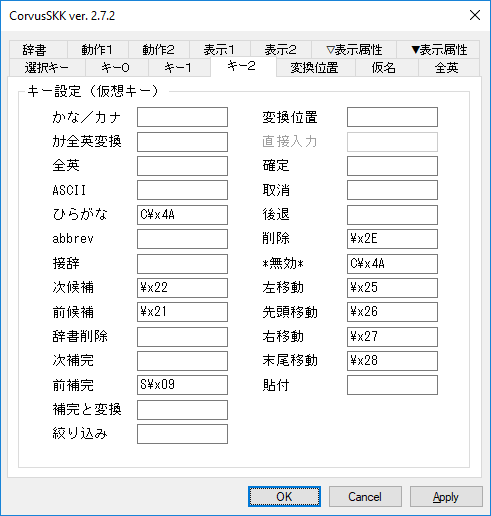
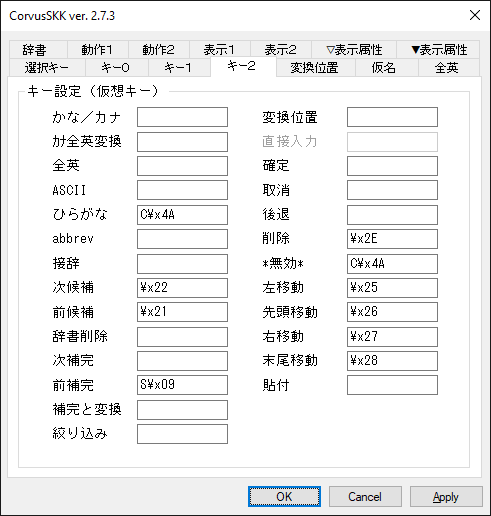
2.7.3
・Per-Monitor DPI のマルチモニタ環境で前回表示したときのフォントサイズが残ってしまうバグを修正しました。
　例えば、144 DPI (150%) のモニタで候補一覧を表示した後、候補一覧が無い状態で 96 DPI (100%) のモニタに移動すると 144 DPI (150%) のフォントサイズで表示していました。

・Per-Monitor DPI のマルチモニタ環境で「候補一覧の最大幅」の設定を DPI に追従させるようにしました。
　例えば、設定値が 100 のとき、96 DPI (100%) のモニタでは 100 ピクセル、144 DPI (150%) のモニタでは 150 ピクセルとして扱われます。
　候補一覧を横表示にしているときに DPI の異なるモニタを行ったり来たりしても候補の配置が維持されるようになります。

・候補一覧において、最大幅の設定値を超えない候補の表示位置を、最大幅の設定値を超える候補の幅ではなく最大幅の設定値の範囲内としました。

・設定ダイアログで「候補一覧表示の描画API」を変更しても適用ボタンが有効にならないバグを修正しました。

・設定ダイアログの「候補一覧表示の描画API」のデフォルト値を 800 から 320 に変更しました。

・静的コード解析で警告となる箇所を修正しました。

・Visual C++ 再配布可能パッケージのライセンス表示を更新しました。

diff --git a/common/version.h b/common/version.h
@@ -7,10 +7,10 @@
 #define TEXTSERVICE_DESC	TEXTSERVICE_NAME L"_DEBUG"
 #endif
 #define TEXTSERVICE_DIR		L"IMCRVSKK"
-#define TEXTSERVICE_VER		L"2.7.2"
+#define TEXTSERVICE_VER		L"2.7.3"
 
 //for resource
 #define RC_AUTHOR			"nathancorvussolis"
 #define RC_PRODUCT			"CorvusSKK"
-#define RC_VERSION			"2.7.2"
-#define RC_VERSION_D		2,7,2,0
+#define RC_VERSION			"2.7.3"
+#define RC_VERSION_D		2,7,3,0

diff --git a/README.md b/README.md
@@ -1,5 +1,5 @@
 
-# CorvusSKK ver. 2.7.2
+# CorvusSKK ver. 2.7.3
 
 Windowsで動作するSKK風のIMEです。
 
